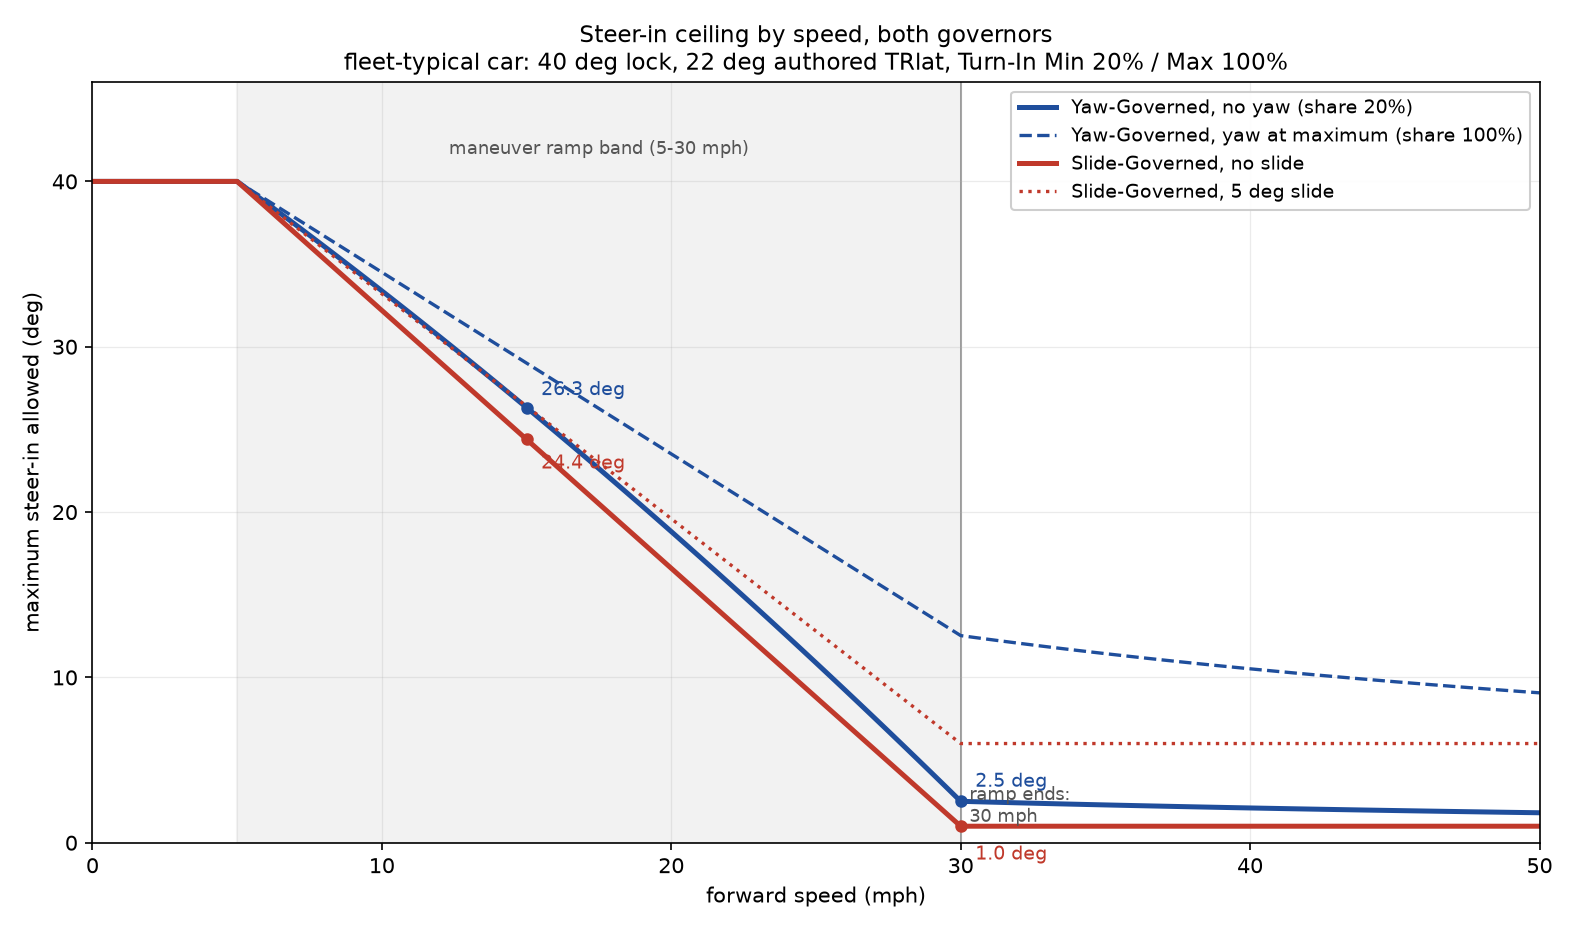
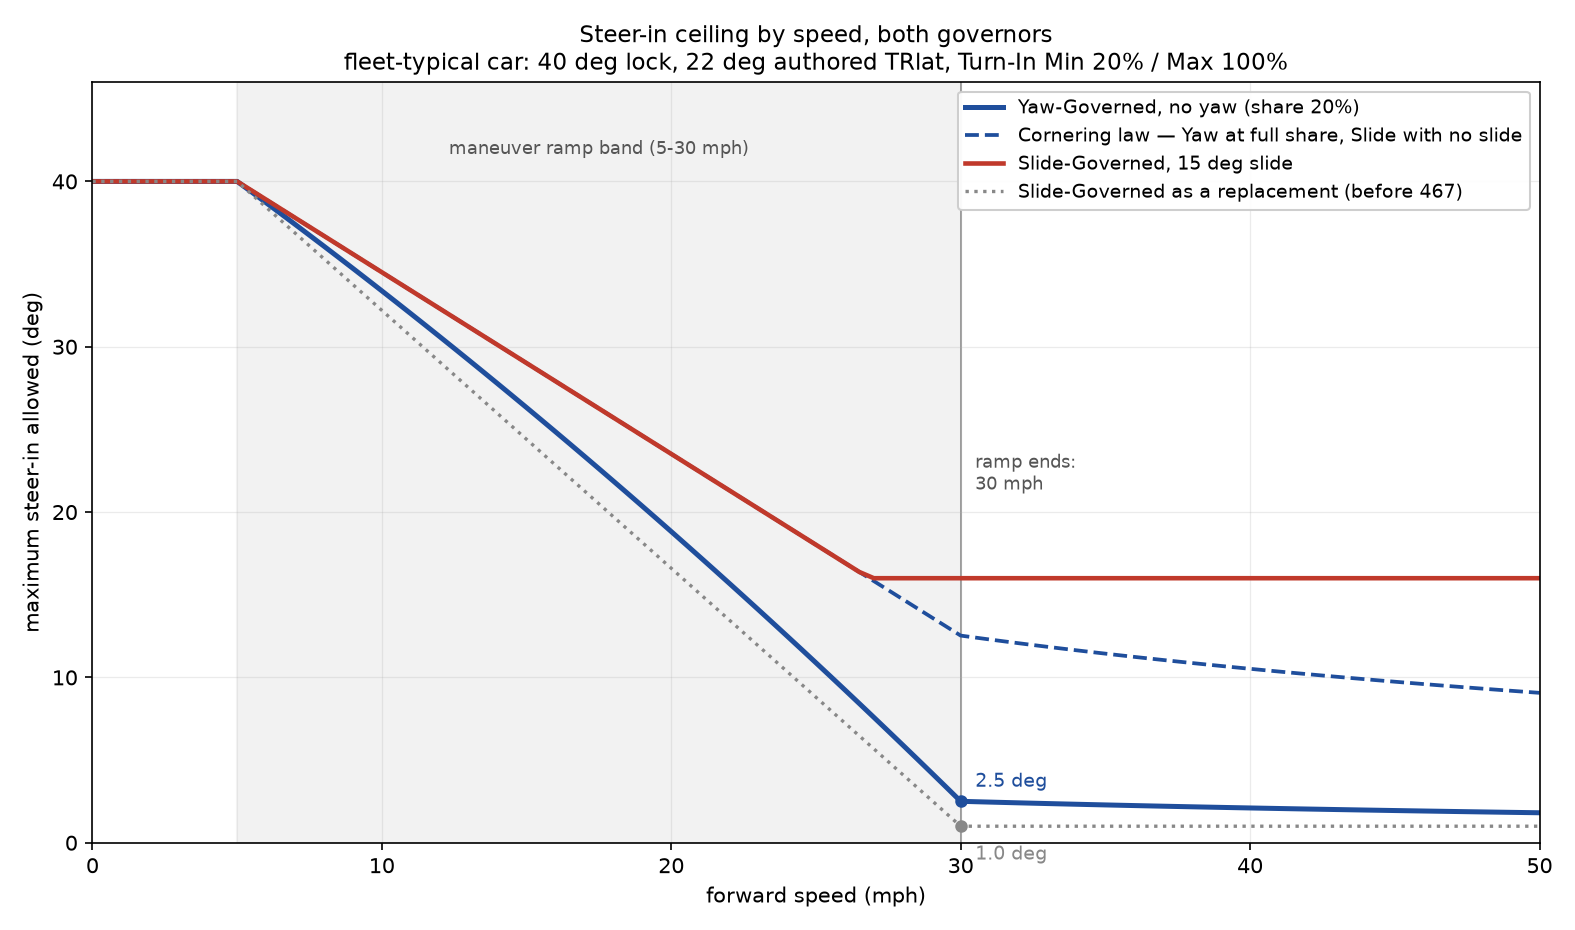
Steering: the slide-governed ceiling adds to the cornering law instead of replacing it
As a replacement the ceiling was the slide angle plus a degree and nothing else, so above the ramp's band it sat at one degree and a car could not steer in, correct, or rejoin from off track. It is now the larger of the cornering law and that value: the law always stands and a slide only opens more. The slide-only ManeuverRamp call goes with it, since ResolveSteerCeiling already carries the ramp, and the plot in docs/ is redrawn to the shipped law with the old curve kept for comparison. Compile-verified only, not yet driven.

diff --git a/docs/steer-limit-modes.py b/docs/steer-limit-modes.py
@@ -2,10 +2,10 @@
 
 Reproduces ApplySteerLimits with no slide and no damper term on the commanded side:
     Yaw-Governed   = min(ResolveSteerCeiling, maneuverRamp(min(base x yawShare, lock)))
-    Slide-Governed = max(min(|slide| + 1, lock), maneuverRamp(...))
+    Slide-Governed = max(ResolveSteerCeiling, min(|slide| + 1, lock))     # additive since 467
 
 Assumes the fleet-typical car: lock 40 deg, authored LateralTractionCurve 22 deg,
-Turn-In Minimum 20%, Turn-In Maximum 100%, no slide, no yaw, no damper bypass.
+Turn-In Minimum 20%, Turn-In Maximum 100%, no yaw, no damper bypass.
 
 Run: python docs/steer-limit-modes.py
 """
@@ -53,11 +53,17 @@ def yaw_governed(mph, yaw_usage):
         return LOCK
     base = resolve_steer_ceiling(v)
     share = TURN_IN_MIN + (TURN_IN_MAX - TURN_IN_MIN) * yaw_usage
-    turn_in = maneuver_ramp(mph, min(base * share, LOCK))
-    return min(base, turn_in)
+    return min(base, maneuver_ramp(mph, min(base * share, LOCK)))
 
 
 def slide_governed(mph, slide_deg=0.0):
+    v = mph * MPH
+    if v <= 0.0:
+        return LOCK
+    return max(resolve_steer_ceiling(v), min(abs(slide_deg) + FREE_PLAY, LOCK))
+
+
+def slide_replacement(mph, slide_deg=0.0):
     v = mph * MPH
     if v <= 0.0:
         return LOCK
@@ -65,11 +71,13 @@ def slide_governed(mph, slide_deg=0.0):
     return max(ceiling, maneuver_ramp(mph, ceiling))
 
 
+cornering = [resolve_steer_ceiling(s * MPH) for s in SPEEDS]
+
 curves = [
     ("Yaw-Governed, no yaw (share 20%)", [yaw_governed(s, 0.0) for s in SPEEDS], "#1f4e9c", "-", 2.4),
-    ("Yaw-Governed, yaw at maximum (share 100%)", [yaw_governed(s, 1.0) for s in SPEEDS], "#1f4e9c", "--", 1.6),
-    ("Slide-Governed, no slide", [slide_governed(s) for s in SPEEDS], "#c0392b", "-", 2.4),
-    ("Slide-Governed, 5 deg slide", [slide_governed(s, 5.0) for s in SPEEDS], "#c0392b", ":", 1.6),
+    ("Cornering law — Yaw at full share, Slide with no slide", cornering, "#1f4e9c", "--", 1.8),
+    ("Slide-Governed, 15 deg slide", [slide_governed(s, 15.0) for s in SPEEDS], "#c0392b", "-", 2.2),
+    ("Slide-Governed as a replacement (before 467)", [slide_replacement(s) for s in SPEEDS], "#888888", ":", 1.6),
 ]
 
 fig, ax = plt.subplots(figsize=(10.5, 6.2), dpi=150)
@@ -79,13 +87,12 @@ ax.text(17.5, 41.4, "maneuver ramp band (5-30 mph)", ha="center", va="bottom", f
 for label, ys, colour, style, width in curves:
     ax.plot(SPEEDS, ys, style, color=colour, linewidth=width, label=label)
 
-for s, colour in ((30.0, "#555555"),):
-    ax.axvline(s, color=colour, linewidth=0.8, alpha=0.6, zorder=0)
-ax.text(30.3, 0.9, "ramp ends:\n30 mph", fontsize=8.5, color="#555555", va="bottom")
+ax.axvline(RAMP_END, color="#555555", linewidth=0.8, alpha=0.6, zorder=0)
+ax.text(30.5, 21.0, "ramp ends:\n30 mph", fontsize=8.5, color="#555555", va="bottom")
 
-marks = [(15, yaw_governed(15, 0.0), "#1f4e9c", (7, 6)), (30, yaw_governed(30, 0.0), "#1f4e9c", (7, 7)),
-         (15, slide_governed(15), "#c0392b", (7, -14)), (30, slide_governed(30), "#c0392b", (7, -16))]
-for x, y, colour, offset in marks:
+marks = [(30, yaw_governed(30, 0.0), "#1f4e9c", (7, 7), "yaw cap"),
+         (30, slide_replacement(30), "#888888", (7, -16), "slide replaced")]
+for x, y, colour, offset, _ in marks:
     ax.plot([x], [y], "o", color=colour, markersize=5)
     ax.annotate(f"{y:.1f} deg", (x, y), textcoords="offset points", xytext=offset, fontsize=9, color=colour)
 
@@ -99,6 +106,6 @@ ax.legend(loc="upper right", fontsize=9, framealpha=0.95)
 fig.tight_layout()
 fig.savefig("docs/steer-limit-modes.png", facecolor="white")
 
-print(f"{'mph':>5} {'yaw 20%':>9} {'yaw 100%':>9} {'slide 0':>9} {'slide 5':>9}")
+print(f"{'mph':>5} {'yaw 20%':>9} {'cornering':>10} {'slide 0':>9} {'slide 15':>9}")
 for s in range(0, 51, 5):
-    print(f"{s:>5} {yaw_governed(s, 0.0):>9.2f} {yaw_governed(s, 1.0):>9.2f} {slide_governed(s):>9.2f} {slide_governed(s, 5.0):>9.2f}")
+    print(f"{s:>5} {yaw_governed(s, 0.0):>9.2f} {resolve_steer_ceiling(s * MPH):>10.2f} {slide_governed(s):>9.2f} {slide_governed(s, 15.0):>9.2f}")

diff --git a/src/Racer.cs b/src/Racer.cs
@@ -1184,12 +1184,10 @@ namespace ARS
             float speedCeiling = VehicleData.SteeringLock;
             if (fwdSpeed > 0f)
             {
-                if (slideGoverned)
-                {
-                    speedCeiling = Math.Min(Math.Abs(VehicleData.SlideAngle) + SlideLimitFreeplayDegrees, VehicleData.SteeringLock);
-                    speedCeiling = Math.Max(speedCeiling, ManeuverRamp(ARS.MpsToMph(fwdSpeed), speedCeiling));
-                }
-                else speedCeiling = ResolveSteerCeiling(fwdSpeed);
+                speedCeiling = ResolveSteerCeiling(fwdSpeed);
+                // The slide adds authority, it does not replace the cornering law: the ceiling is the larger of the
+                // two, so a car can always steer in and rejoin, and a slide only ever opens more than it has.
+                if (slideGoverned) speedCeiling = Math.Max(speedCeiling, Math.Min(Math.Abs(VehicleData.SlideAngle) + SlideLimitFreeplayDegrees, VehicleData.SteeringLock));
             }
             SteerLimitRight = speedCeiling;
             SteerLimitLeft = speedCeiling;

diff --git a/TEST-PLAN.md b/TEST-PLAN.md
@@ -1,4 +1,4 @@
-# ARS — test plan: build 466
+# ARS — test plan: build 467
 
 **Status: partially driven.** The recovery's reverse phase and its teleport, now gated on the escape budget, are
 driver-verified on build 450 (`666c89b`); No Collision's one-shot mode and its per-tick all-pairs form were both
@@ -6,7 +6,7 @@ driven and **failed** against the engine's one-slot limit, and its nearest-rival
 (`cbae845`); the slew is driven — 45 read as less stable and **180 removed most of the stability problems**
 (`393bfdd`, driver-verified); the damper's speed scale is capped at 1 and **driver-verified as an improvement**
 (`5bb94bd`); the engine restart, the steer limit governor, its damper bypass and the maneuvering ramp are new and
-undriven. Everything else below is undriven. The deployed DLL is dev build **466**; a build + reload is enough
+undriven. Everything else below is undriven. The deployed DLL is dev build **467**; a build + reload is enough
 (SHVDN reloads the scripts live, no game restart).
 
 | commit | what it is | section |
@@ -282,9 +282,13 @@ misreading of the intended "slide angle plus one degree", which belongs in the s
 - **Yaw-Governed** (default, the previous behaviour minus the knee): the cornering ceiling from the at-speed peak
   slip, scaled by yaw usage from Turn-In Minimum to Turn-In Maximum, plus the countersteer allowance (slide angle
   times blend weight) on the answering side.
-- **Slide-Governed**: the ceiling is the **slide angle plus one degree** on both sides, clamped to lock. No yaw
-  turn-in share, no countersteer allowance. At zero slide the limit is one degree, so a car steers by developing
-  slip rather than by steering into it.
+- **Slide-Governed**: the cornering law stands **and the slide adds to it** — the ceiling is the larger of the two,
+  the slide angle plus one degree clamped to lock. No yaw turn-in share. It was a *replacement* until `467`, which
+  put the ceiling at one degree above 30 mph and left cars unable to steer in or rejoin; as an addition a car keeps
+  the full cornering law and a slide only ever opens more.
+- The **addition versus replacement** distinction is the whole A/B: Yaw-Governed *caps* steer-in by yaw usage, while
+  Slide-Governed never caps it and adds as the slide grows. The curves are plotted in
+  `docs/steer-limit-modes.png`, drawn by `docs/steer-limit-modes.py`.
 
 The answering side is now **one shared path in both modes**: the countersteer allowance (slide angle times blend
 weight) **and a damper bypass**. When the damper's term pushes *against* the rotation **and** the command does too,
@@ -299,11 +303,10 @@ the car, not cornering.
 
 Watch:
 
-1. **Slide-Governed, corner entry** — a car with no slide is capped at one degree of steer, so it has to slide
-   before it can turn. Watch whether it can start a corner at all, and especially at low speed in a hairpin. If it
-   ploughs straight on and never builds a slide, the limit is the deadlock and not the driving.
-2. **Slide-Governed, catching a slide** — the answering side can reach a degree past the neutral countersteer, so
-   the counterbalancer must never be clipped.
+1. **Slide-Governed, corner entry** — the cornering law stands untouched, so the car should steer in exactly as
+   Yaw-Governed does at full yaw share. If it still ploughs straight on, the limit is not the reason.
+2. **Slide-Governed, catching a slide** — a slide past the cornering law opens extra authority, and the answering
+   side can reach the slide angle plus a degree, so the counterbalancer must never be clipped.
 3. **Yaw-Governed, corner entry** — dropping the knee took away the one place that gave a degree back. Watch
    whether cars now understeer where the knee used to help.
 4. **Either mode** — the switch persists in the menu settings, so confirm the mode you think you are driving is the
